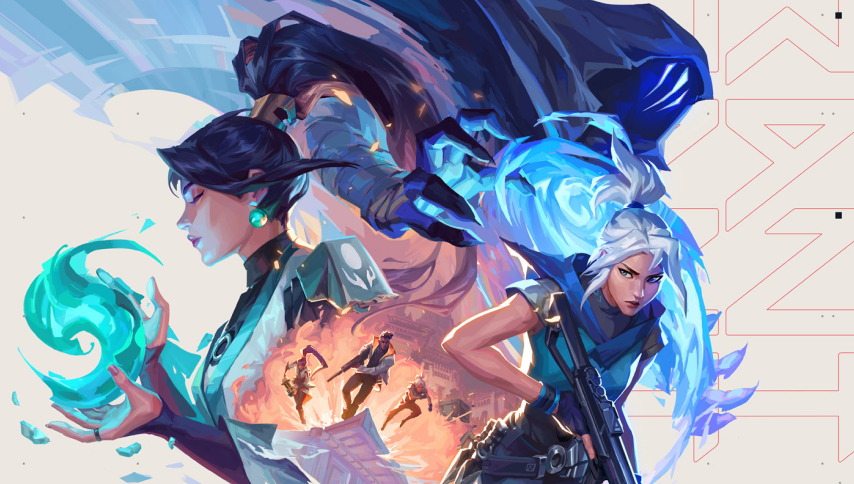
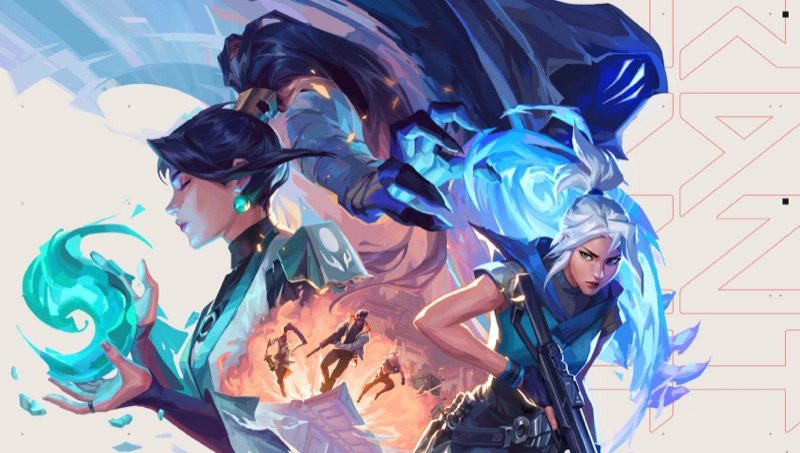
perf(services): optimize game card images from 28MB to 2.8MB, add priority eager loading and async decoding

diff --git a/src/components/services/GameCard.tsx b/src/components/services/GameCard.tsx
@@ -8,6 +8,7 @@ import { resolveGameBadge, type GameDefinition } from '@/lib/games';
 
 interface GameCardProps {
   game: GameDefinition;
+  priority?: boolean;
 }
 
 const BADGE_CONFIG = {
@@ -38,15 +39,17 @@ const BADGE_CONFIG = {
   },
 };
 
-export default function GameCard({ game }: GameCardProps) {
+export default function GameCard({ game, priority = false }: GameCardProps) {
   // Ưu tiên tải bannerUrl online trước, nếu lỗi hoặc trống thì fallback về banner local
   const initialImage = game.bannerUrl || game.banner || null;
   const [currentSrc, setCurrentSrc] = useState<string | null>(initialImage);
   const [isFailed, setIsFailed] = useState(false);
+  const [isLoaded, setIsLoaded] = useState(false);
 
   useEffect(() => {
     setCurrentSrc(game.bannerUrl || game.banner || null);
     setIsFailed(false);
+    setIsLoaded(false);
   }, [game.bannerUrl, game.banner]);
 
   const handleImageError = () => {
@@ -82,8 +85,14 @@ export default function GameCard({ game }: GameCardProps) {
           <img
             src={currentSrc}
             alt={game.name}
+            loading={priority ? 'eager' : 'lazy'}
+            decoding="async"
+            fetchPriority={priority ? 'high' : 'auto'}
+            onLoad={() => setIsLoaded(true)}
             onError={handleImageError}
-            className="w-full h-full object-cover object-center group-hover:scale-105 transition-transform duration-700 opacity-75 group-hover:opacity-100"
+            className={`w-full h-full object-cover object-center group-hover:scale-105 transition-all duration-700 ${
+              isLoaded ? 'opacity-75 group-hover:opacity-100' : 'opacity-0'
+            }`}
           />
         ) : (
           <div className="w-full h-full relative flex items-center justify-end pr-4">

diff --git a/src/components/home/EsportsGamesGrid.tsx b/src/components/home/EsportsGamesGrid.tsx
@@ -52,8 +52,8 @@ export default function EsportsGamesGrid() {
 
         {/* 4 Cards / 1 Hàng Grid (Chuẩn yêu cầu: 4 cards 1 hàng) */}
         <div className="grid grid-cols-1 sm:grid-cols-2 md:grid-cols-2 lg:grid-cols-4 gap-4 sm:gap-5">
-          {displayedGames.map((game) => (
-            <GameCard key={game.id} game={game} />
+          {displayedGames.map((game, idx) => (
+            <GameCard key={game.id} game={game} priority={idx < 4} />
           ))}
         </div>
 

diff --git a/src/app/services/page.tsx b/src/app/services/page.tsx
@@ -101,8 +101,8 @@ export default function ServicesHubPage() {
 
         {/* 2. Games Grid (4 Cards 1 Hàng trên Desktop) */}
         <div className="grid grid-cols-1 sm:grid-cols-2 lg:grid-cols-4 gap-4 sm:gap-5">
-          {visibleGames.map((game) => (
-            <GameCard key={game.id} game={game} />
+          {visibleGames.map((game, idx) => (
+            <GameCard key={game.id} game={game} priority={idx < 4} />
           ))}
         </div>
 
